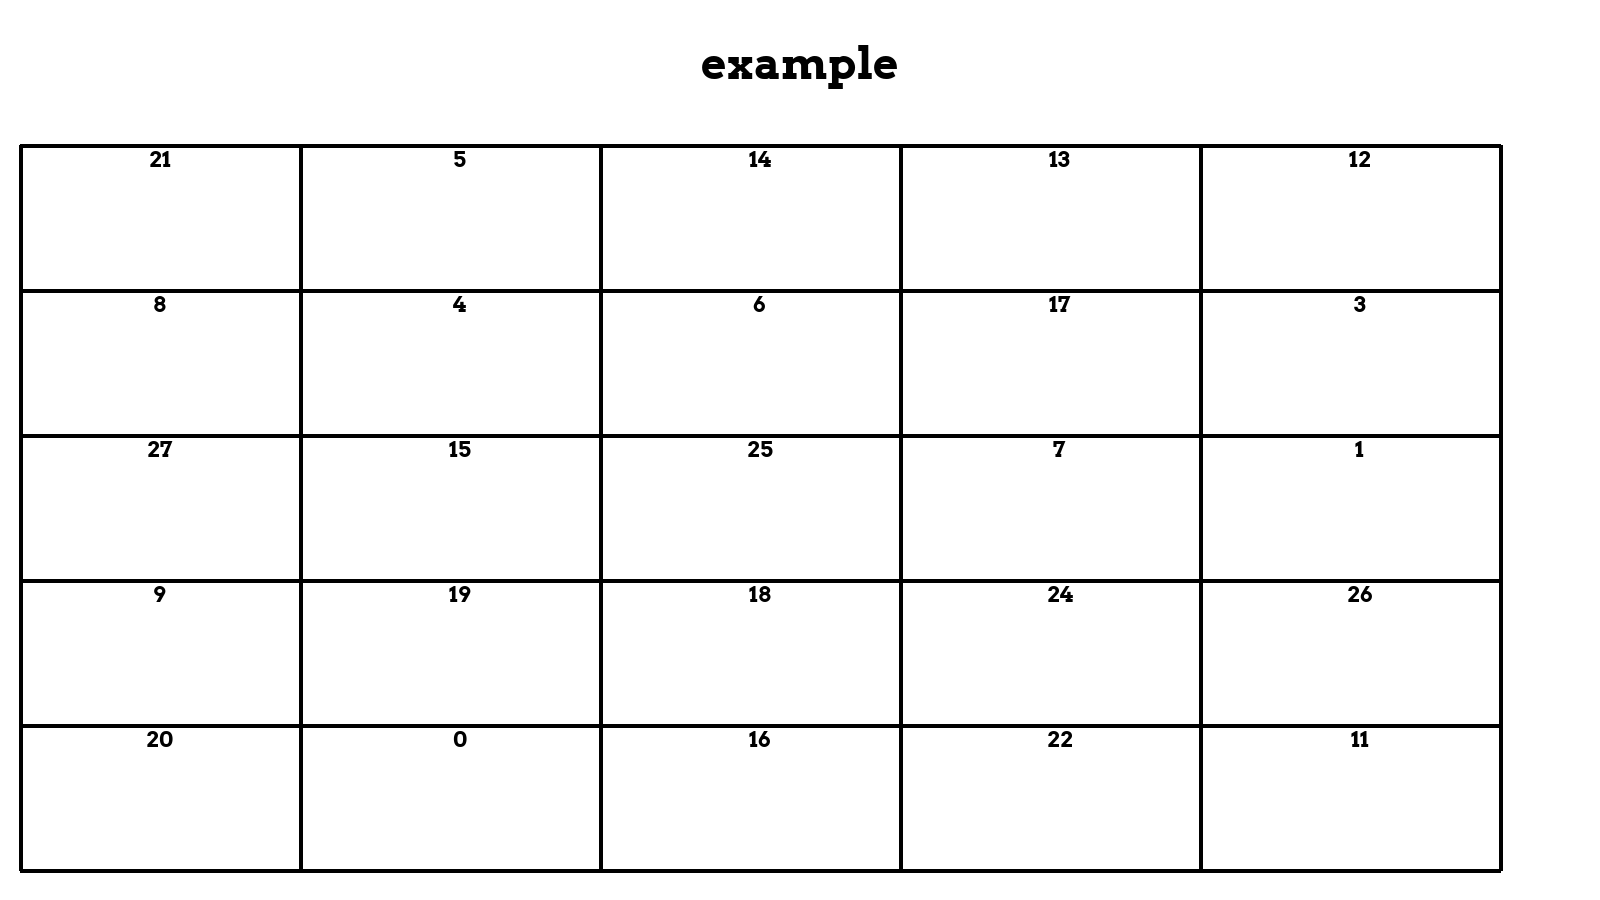
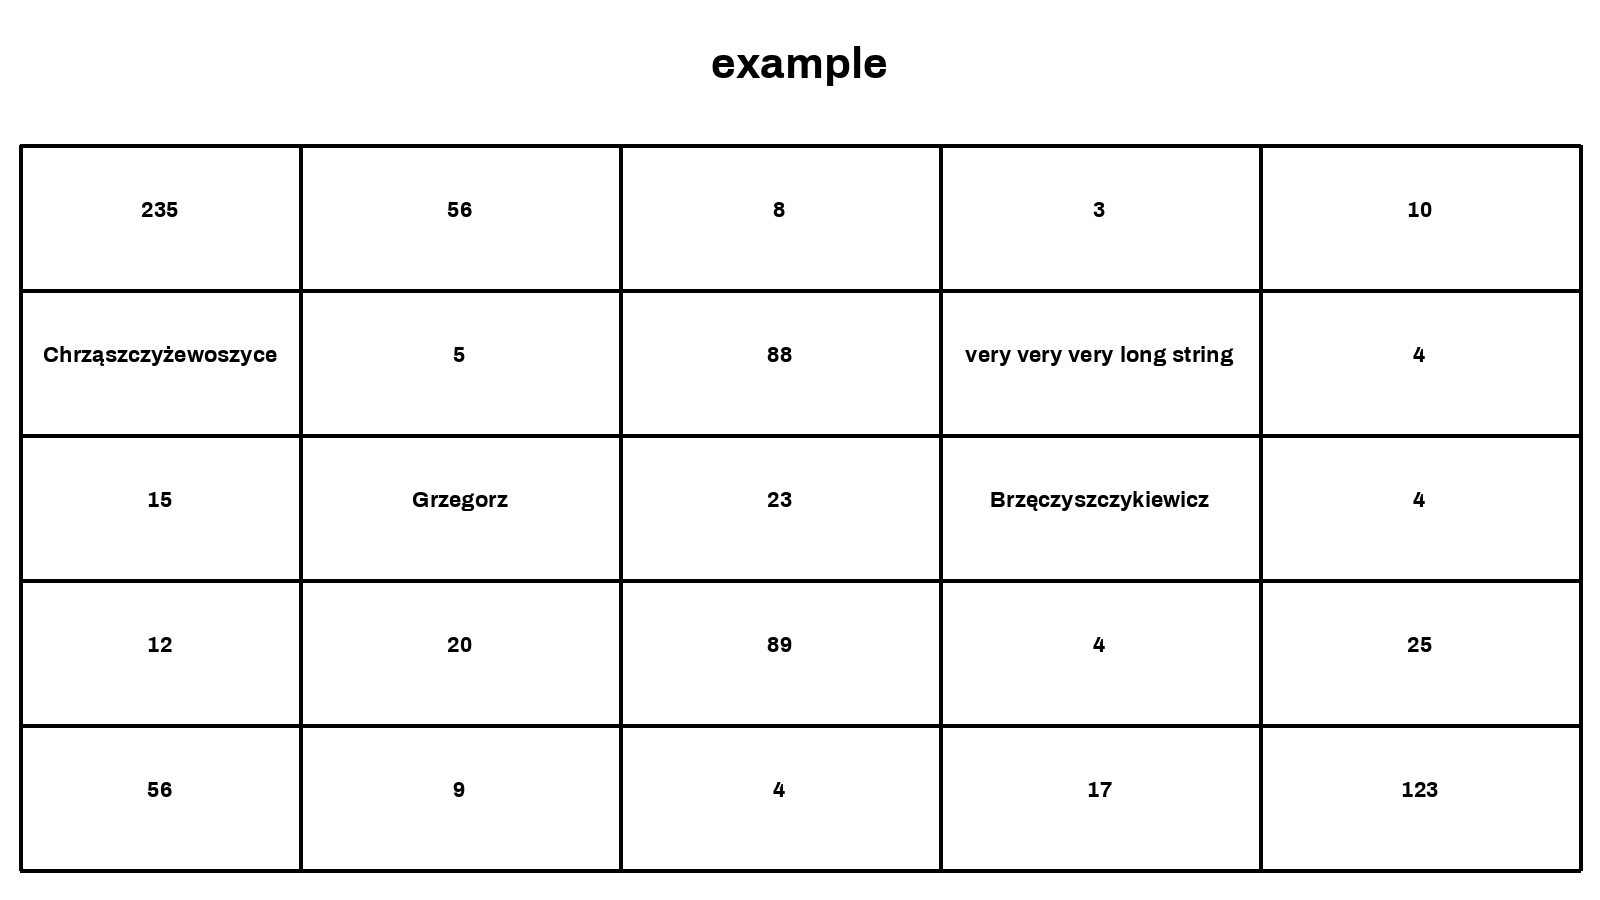
fixed font issues, updated readme.md

diff --git a/bin/bingo.py b/bin/bingo.py
@@ -1,12 +1,15 @@
 #!/usr/bin/env python
+import csv
 
 import click
+from io import StringIO
+
 from bingo_generator import Bingo
 
 
 @click.command()
 @click.argument('title', nargs=1)
-@click.argument('fields', nargs=-1)
+@click.argument('fields', nargs=-1, type=click.UNPROCESSED)
 @click.option('--freespace', default='',
               help='Freespace field for your bingo')
 @click.option('--size', default=5,
@@ -15,7 +18,7 @@ from bingo_generator import Bingo
               help="determine whether or not to shuffle bingo fields. True or False, True by default")
 @click.option('--bgcolor', default='#FFF',
               help='Background color')
-@click.option('--fontpath', default='./Arvo-Bold.ttf',
+@click.option('--fontpath',
               help='Path to font of your choice')
 @click.option('--color', default='#000',
               help='Font color')
@@ -28,20 +31,15 @@ from bingo_generator import Bingo
 def cli(title, fields, freespace, size, randomize, bgcolor, fontpath, color, fontsize, padding, dimensions):
     """
     Bingo generator. \n
-    FIELDS: Input bingo fields splitted by '##' sequence. \n
+    FIELDS: Input bingo fields formatted as CSV string \n
     TITLE: Title of the Bingo. \n
     """
-    fields = "".join([str(i) for i in fields]).split('##')
-    bing = Bingo(fields, title=title, freespace=freespace, size=size, randomize=randomize,
+
+    entries = list(csv.reader(StringIO(" ".join(i for i in fields))))[0]
+    Bingo.make_bingo_from_scratch(entries=entries, title=title, freespace=freespace, size=size, randomize=randomize,
                  bgcolor=bgcolor, fontcolor=color,
                  width=dimensions[0], height=dimensions[1], padding=padding,
-                 fontpath=fontpath, fontsize = fontsize
-                 )
-    bing.split_entries()
-    bing.draw_title()
-    bing.generate_bingo()
-    bing.draw_lines()
-    bing.save_bingo()
+                 fontpath=fontpath, fontsize = fontsize)
 
 
 if __name__ == '__main__':

diff --git a/bingo_generator/bingo_generator.py b/bingo_generator/bingo_generator.py
@@ -2,7 +2,7 @@ from PIL import ImageFont
 from PIL import Image
 from PIL import ImageDraw
 from random import shuffle
-
+import os
 
 class Bingo:
     def __init__(self, entries: list, title: str ="test", freespace: str = "", size: int = 5, randomize: bool = True,
@@ -10,14 +10,14 @@ class Bingo:
                  width: int = 1600, height: int = 900, padding: int = 20,
                  fontpath: str = None, fontsize: int = 22):
         self.title = title
-        self.font = ImageFont.truetype('./font/Archivo-Bold.ttf', fontsize) if not fontpath else ImageFont.truetype(fontpath, fontsize)
+        self.font = ImageFont.truetype(os.path.abspath('./font/Archivo-Bold.ttf'), fontsize) if not fontpath else ImageFont.truetype(fontpath, fontsize)
         self.color = fontcolor
         self.img = Image.new("RGBA", (width, height), bgcolor)
         self.draw = ImageDraw.Draw(self.img)
         self.size = size
         self.p = padding
         self.width, self.height = width, height
-        self.line_width = (self.width // (self.size - 1) ) - (self.size + 1)  * self.p
+        self.line_width = (self.width // (self.size - 1) ) - (self.size + 1) * self.p
         self.line_height = (self.height // (self.size - 1)) - self.size * self.p
 
         self.entries = entries
@@ -125,3 +125,4 @@ class Bingo:
         bing.generate_bingo()
         bing.draw_lines()
         bing.save_bingo()
+        return bing

diff --git a/README.md b/README.md
@@ -1,13 +1,20 @@
 Bingo generator
----------------
+===
 
-Simple bingo generator written in python.
+Overwiew
+----
+A Bingo generator written in python using a PIL. 
 
-Just simply install the package using `python -m pip install .`, and use CLI script directly from your shell with `bingo.py`. The first argument goes for title of the bingo, the rest - divided with `##` sequence - are bingo fields.
+The main purpose of this module is to generate randomized bingo, just for the delight of the crowd.
 
-Sample usage: 
+#### Usage
+Just simply install the package using `python -m pip install .` in folder with setup.py.
 
-`bingo.py example 0##1##2##3##4##5##6##7##8##9##10##11##12##13##14##15##16##17##18##19##20##21##22##23##24##25##26##27##28##29##30`
+##### Script
+You use CLI script directly from your shell with `bingo.py`. Format them like CSV (just use `\"` for quotes).
+
+Sample usage:
+`bingo.py example Brzęczyszczykiewicz,Grzegorz,Chrząszczyżewoszyce,\"Jan, Maria, Rokita\",8,9,10,12,15,17,20,25,"very very very long string",56,89,235,23,56,88,123,5,3,4,4,4,4`
 
 will generate following image:
 
@@ -15,3 +22,67 @@ will generate following image:
 
 
 Use `bingo.py --help` for more info.
+
+##### Package
+You can also use bingo-generator as package. 
+
+Sample usage:
+
+```python
+import Bingo
+
+
+entries = [
+    'Brzęczyszczykiewicz',
+    'Grzegorz',
+    'Chrząszczyżewoszyce',
+    '"Jan, Maria, Rokita"',
+    '8',
+    '9',
+    '10',
+    '12',
+    '15',
+    '17',
+    '20',
+    '25',
+    ''"very very very long string"'',
+    '56',
+    '89',
+    '235',
+    '23',
+    '56',
+    '88',
+    '123',
+    '5',
+    '3',
+    '4',
+    '4',
+    '4',
+    '4'
+    ]
+    
+bing = Bingo.make_bingo_from_scratch(entries=entries, title='Example')
+
+```
+
+Will generate bingo simillar to previous one.
+
+Bingo values:
+- entries - list of strings - Bingo entries.
+- title - str  - Bingo title
+- freespace - str - Bingo freespace (the central square) 
+- size - int - width and height of the Bingo
+- randomize - boolean - determines whether or not to determine bingo fields
+- bgcolor 
+- fontcolor
+- width - int -1600
+- height - int = 900
+- padding - int - 20
+- fontpath - path to your fonpath if you don't want to use default one
+- fontsize - int - size of your font
+
+
+### Resources
+All used resources belongs to respective owners.
+
+Font taken from https://github.com/google/fonts/blob/master/ofl/archivo/Archivo-Bold.ttf
